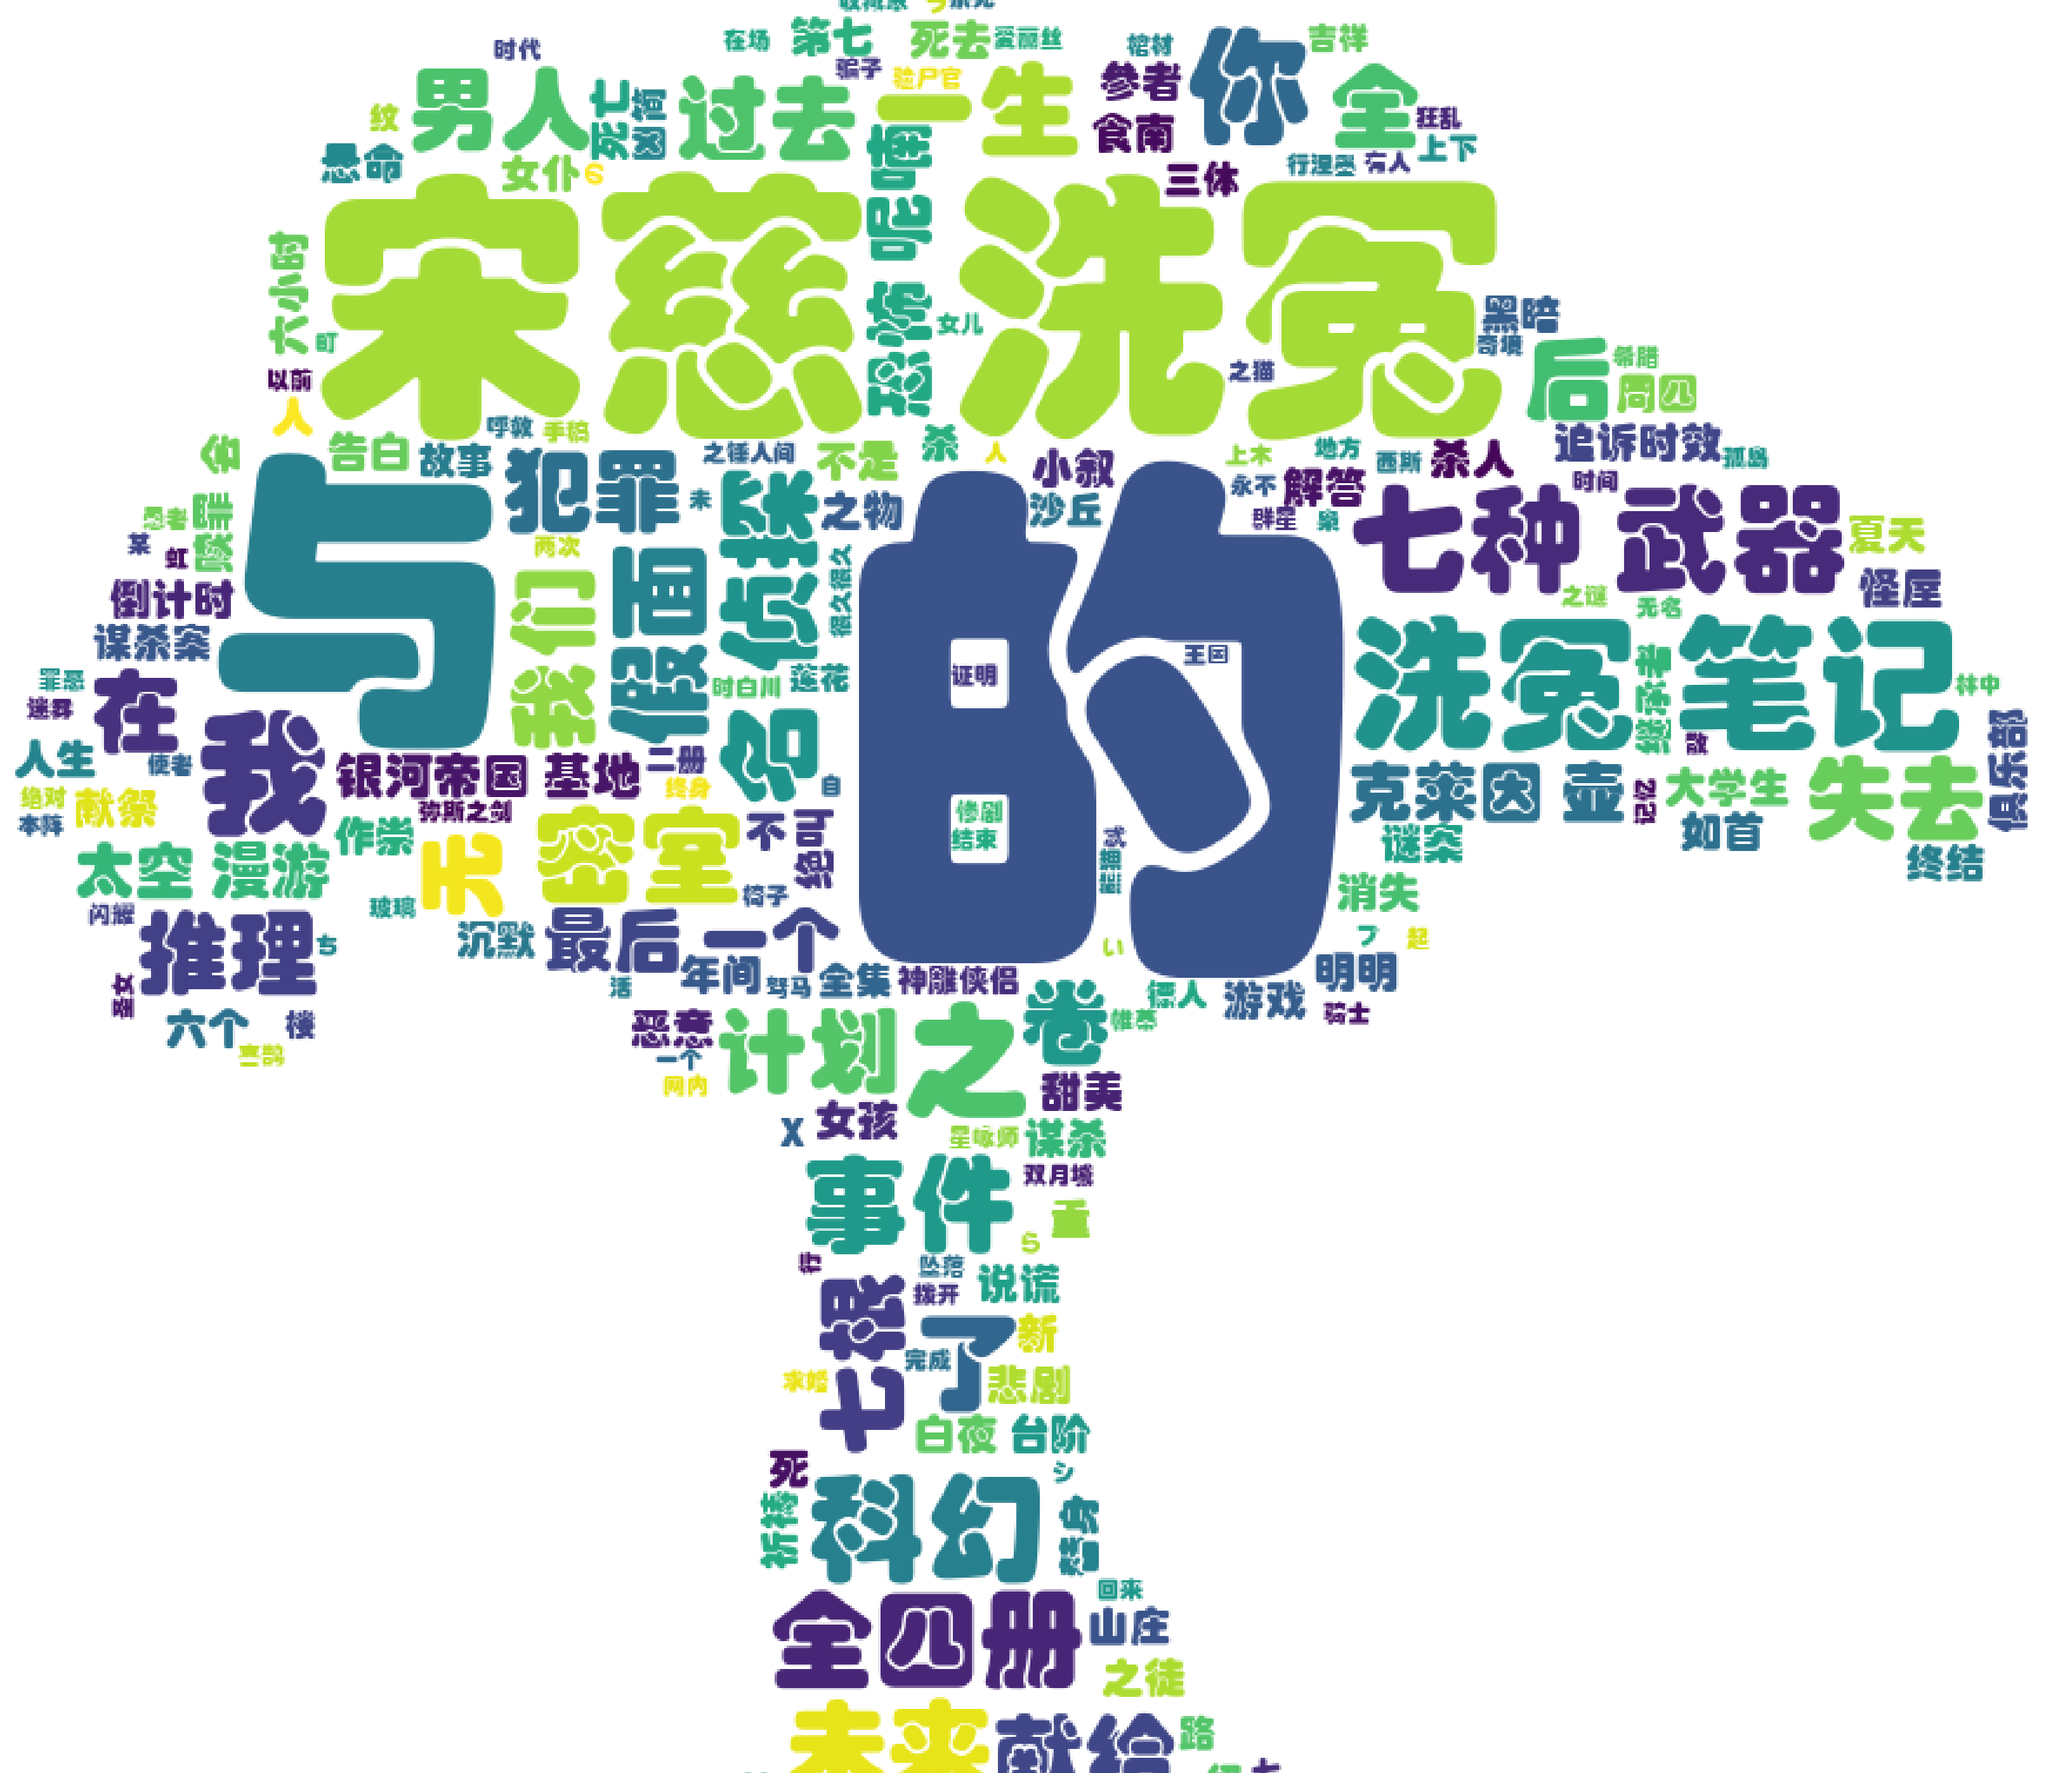
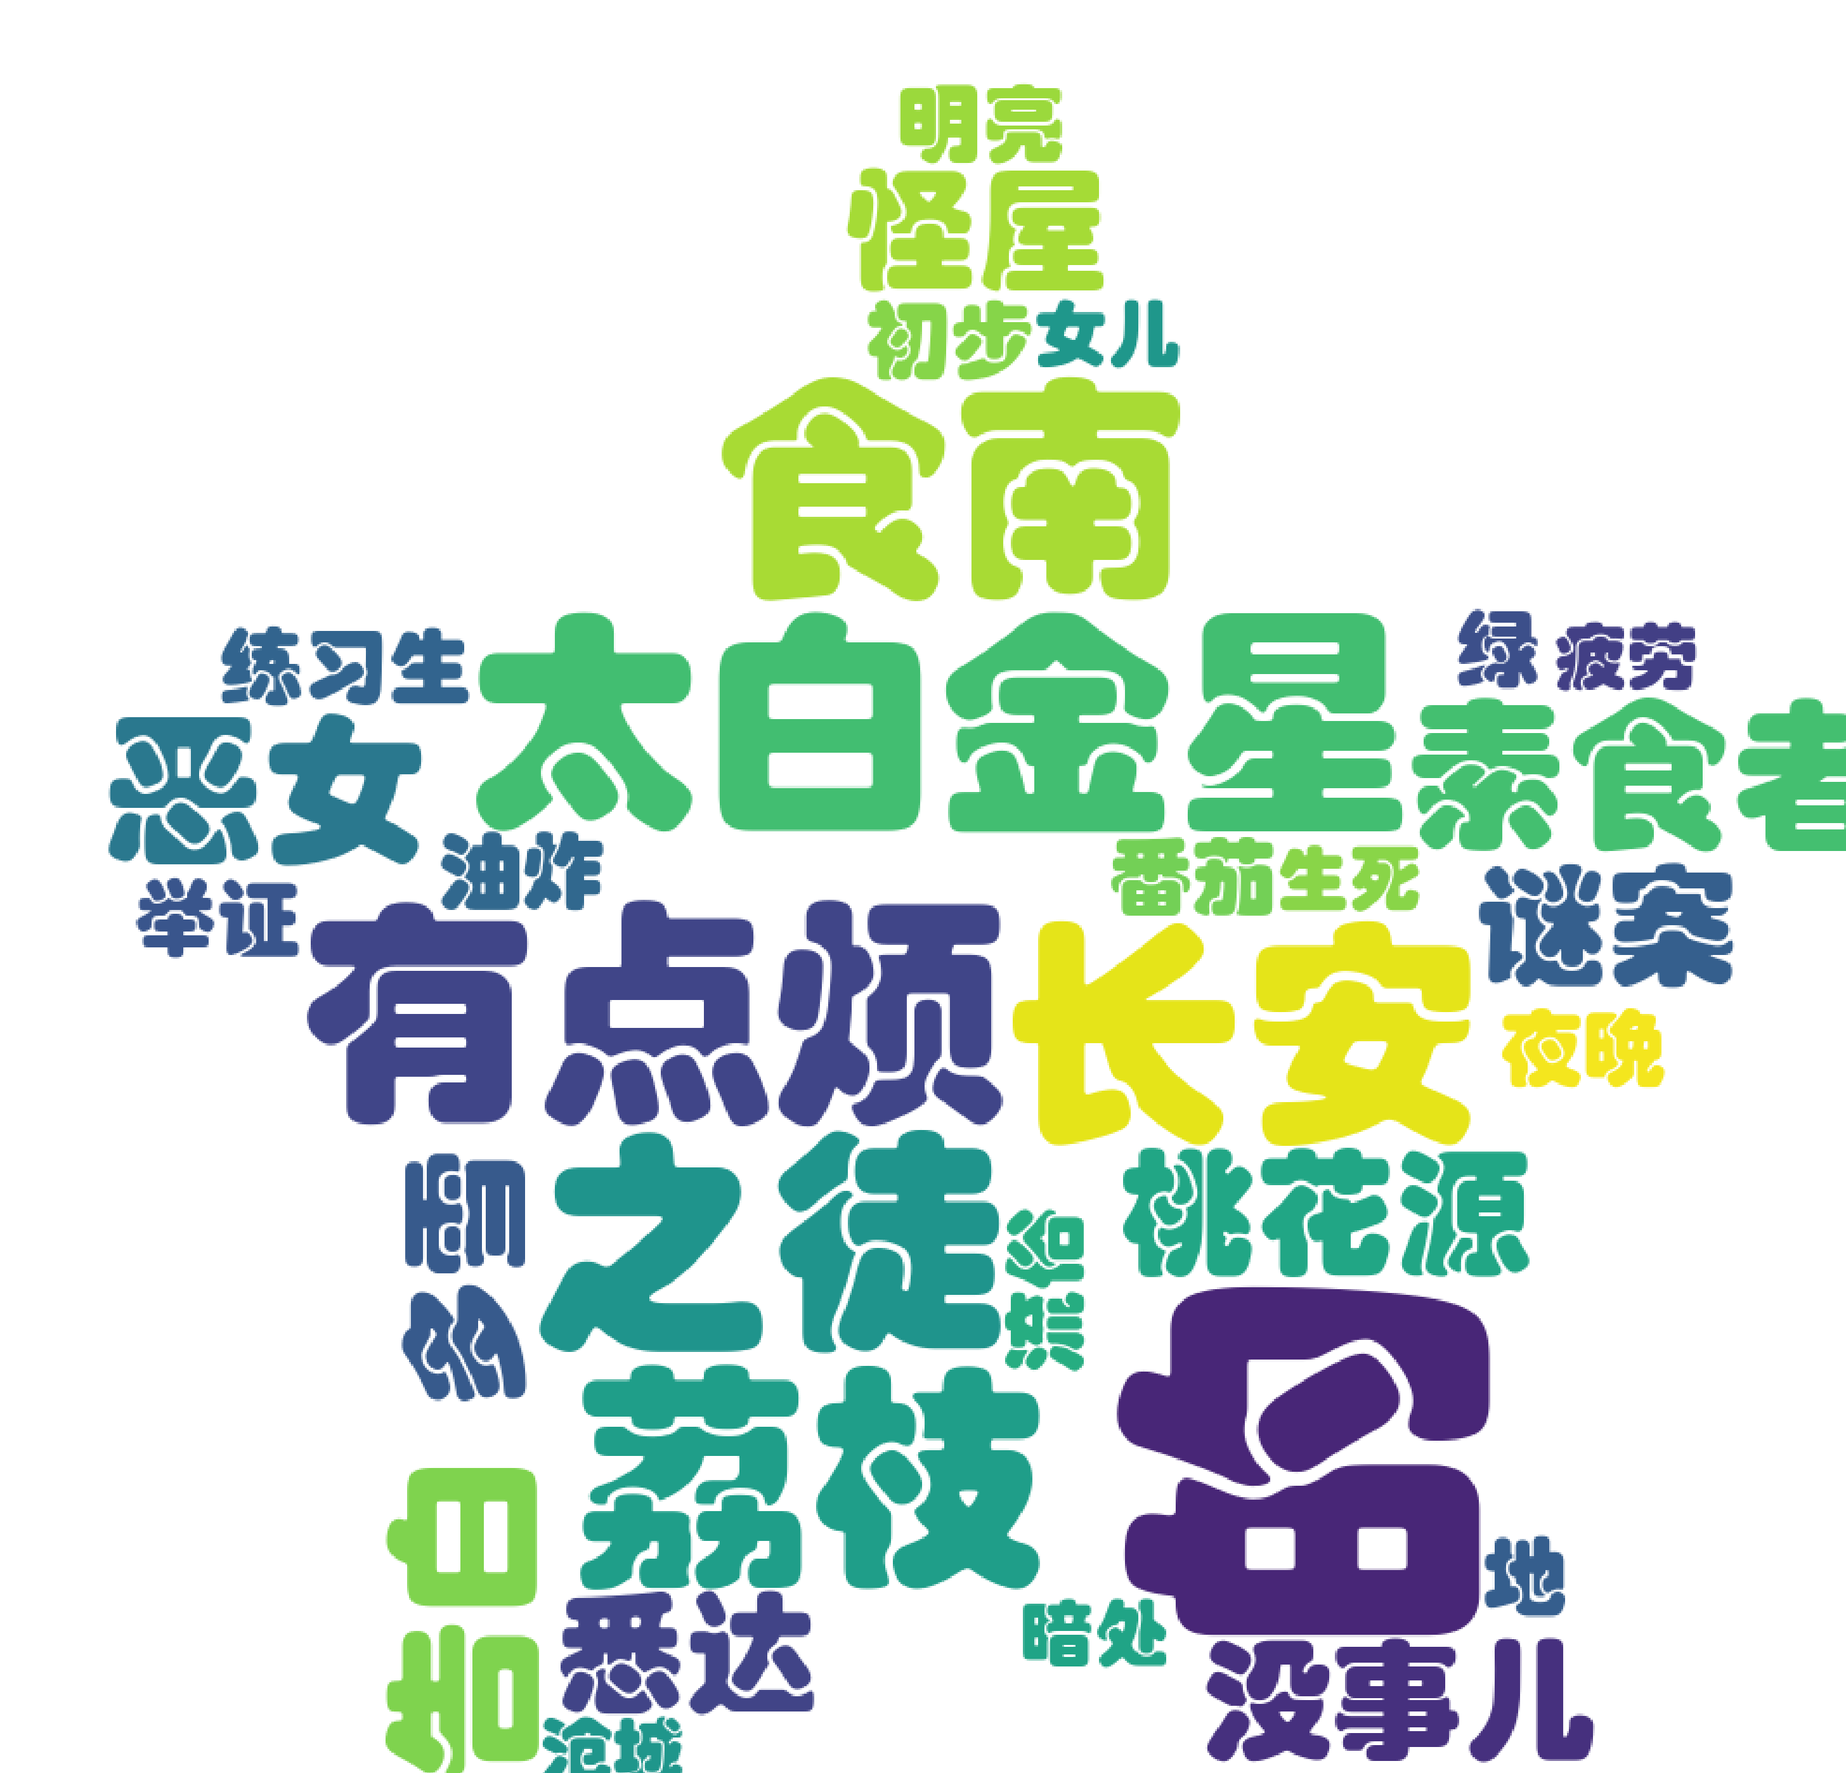
添加wordcloud功能

diff --git a/wordCloud.py b/wordCloud.py
@@ -1,0 +1,42 @@
+import jieba
+from matplotlib import pyplot as plt
+from wordcloud import WordCloud
+import numpy as np
+from PIL import Image
+from pymysql import *
+
+def get_img(field,targetImageSrc,resImageSrc):
+    conn = connect(host="localhost",user="root",password="123456",database="dbbook",port=3306,charset='utf8mb4')
+    cursor = conn.cursor()
+    sql = f"select {field} from booklist"
+    cursor.execute(sql)
+    data = cursor.fetchall()
+
+    text = ''
+    for i in data:
+        if i[0] != '':
+            tarArr = i
+            for j in tarArr:
+                text += j
+    cursor.close()
+    conn.close()
+    data_cut = jieba.cut(text,cut_all=False)
+    string = ' '.join(data_cut)
+
+    #wordcloud
+    img = Image.open(targetImageSrc)
+    ima_arr = np.array(img)
+    wc = WordCloud(
+        background_color='#fff',
+        font_path='STHUPO.TTF',
+        mask=ima_arr
+    )
+    wc.generate_from_text(string)
+
+    fig = plt.figure(1)
+    plt.imshow(wc)
+    plt.axis('off')
+
+    plt.savefig(resImageSrc,dpi=800,bbox_inches='tight',pad_inches=-0.1)
+
+get_img('title','./static/start.jpg','./static/cloudImg/titleCloud')
